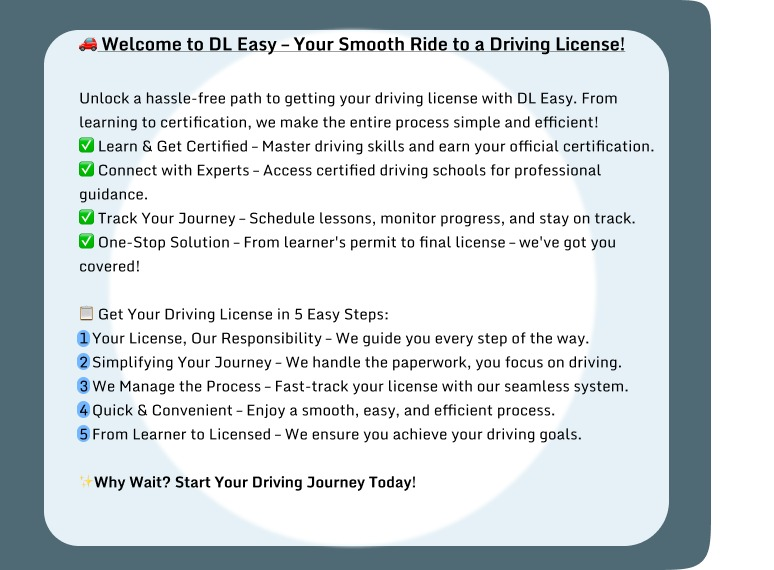
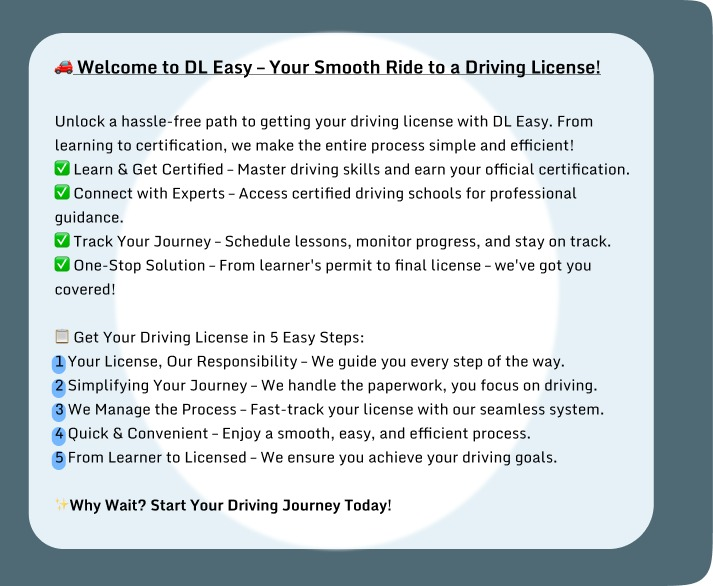
Updateddd

diff --git a/src/components/LoginPages.js b/src/components/LoginPages.js
@@ -25,6 +25,29 @@ const LoginPage = () => {
 
         <img src={intro} alt="Introduction" className="intro"/>
 
+        {/* <div className="intro-container">
+          <div className="intro">
+            <p><strong>Welcome to DL Easy - </strong>Your Smooth Ride to a Driving License!</p>
+            <p>Unlock a hassle-free path to getting your driving license with DL Easy. From 
+              learing to certification, we make the entire process simple and efficient!
+            </p>
+            <p>Learn & Get Certified - Master driving skills and earn your official certification.</p>
+            <p>Connect with Experts - Access certified driving schools for professional guidance.</p>
+            <p>Track  Your Journey - Schedule lessons, moniter progress, and stay on track.</p>
+            <p>One-Stop Solution - From Learner's permit to final license - we've got you covered!</p>
+            <br />
+            <p><strong>Get Your Driving License in 5 Easy Steps:</strong></p>
+            <p>Your License, Our Responsibility - We guide you every step of the way.</p>
+            <p>Simplifying Your Journey - We handle the paperwork, you focus on driving.</p>
+            <p>We Manage the Process - Fast-track your license with our seamless system.</p>
+            <p>Quick & Convenient - Enjoy a smooth, easy, and efficient process.</p>
+            <p>From Learner to Licensed - We ensure you achieve your driving goals.</p>
+
+            <h4>✨{" "}Why Wait? Start Your Driving Journey Today!</h4>
+            <div className="circle"></div>
+          </div>
+        </div> */}
+
         <section className="login-box">
           <h2>Login to your account</h2>
           <label htmlFor="email">Email</label>

diff --git a/src/components/Navbar.js b/src/components/Navbar.js
@@ -1,5 +1,5 @@
 import React, { useState, useEffect, useRef } from "react";
-import { Link } from "react-router-dom";
+import { Link, useNavigate } from "react-router-dom";
 import { MdAccountCircle } from "react-icons/md";
 import { IoClose } from "react-icons/io5"; 
 import { RiLogoutCircleRLine } from "react-icons/ri";
@@ -10,6 +10,7 @@ const Navbar = ({ logoSrc = logo, logoAlt = "Driving License Portal" }) => {
   const [isMenuOpen, setIsMenuOpen] = useState(false);
   const menuRef = useRef(null);
   const buttonRef = useRef(null);
+  const navigate = useNavigate();
 
   useEffect(() => {
     const handleClickOutside = (event) => {
@@ -32,7 +33,13 @@ const Navbar = ({ logoSrc = logo, logoAlt = "Driving License Portal" }) => {
   return (
     <div className="navbar-container">
       <header data-thq="thq-navbar" className="navbar-navbar-interactive">
-        <img alt={logoAlt} src={logoSrc} className="navbar-image1" />
+        <img
+          alt={logoAlt}
+          src={logoSrc}
+          className="navbar-image1"
+          onClick={() => navigate("/home")}
+          style={{ cursor: "pointer" }}
+        />
 
         <nav className="navbar-desktop-menu">
           <div className="profile-container">

diff --git a/src/styles/Loginpage.css b/src/styles/Loginpage.css
@@ -22,7 +22,6 @@ body {
     height: 70px;
     align-items: center;
     justify-content: space-between;
-    padding: 15px 30px;
     background-color: var(--dl-color-theme-neutral-light);
     box-shadow: 0px 4px 6px rgba(0, 0, 0, 0.1);
 }
@@ -51,7 +50,8 @@ body {
     flex-direction: row;
     justify-content: space-between;
     width: 100%;
-    padding: 20px;
+    padding: 0;
+    margin: 0;
 }
 
 .intro{
@@ -63,6 +63,27 @@ body {
     height: 650px;
 
 }
+
+
+/* .intro-container{
+    width: 100%;
+    max-width: 700px;
+    height: 500px;
+    margin: 0;
+    background-color: rgba(37, 69, 83, 0.8);
+    border-top-right-radius: 30px;
+    border-bottom-right-radius: 20px;
+}
+
+.intro{
+    background-color: gray;
+    padding: 50px;
+    width: 100%;
+    max-width: 600px;
+    height: 450px;
+    text-align: left;
+} */
+
 
 .login-box {
     display: flex;
